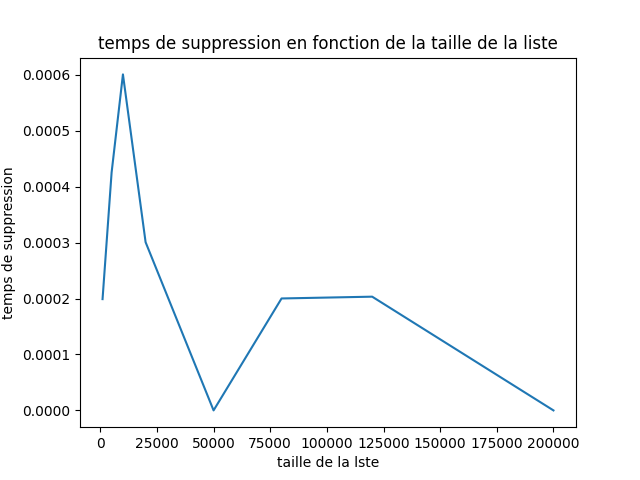
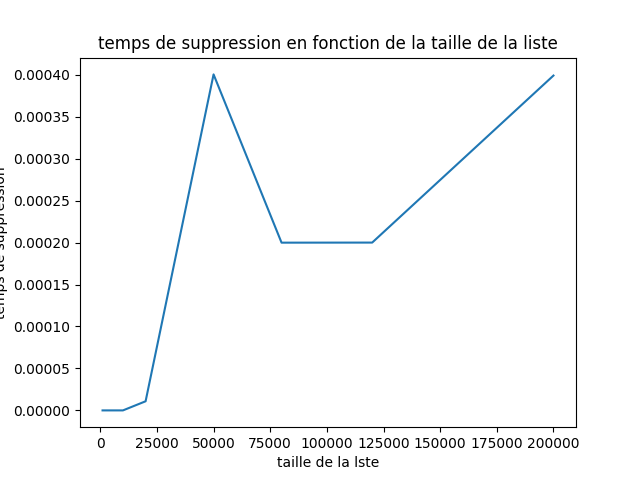
d

diff --git a/algos.py b/algos.py
@@ -425,29 +425,29 @@ list_of_sizes = [1000, 5000 ,10000, 20000, 50000, 80000, 120000 ,200000]
 # plt.savefig("experiments/temps_de_construction_tree.png")
 
 
-# def moyenne_temps_suppression_table(list_of_sizes):
-#     list_of_times = []
-#     for size in list_of_sizes:
-#         list_of_times_for_size = []
-#         for i in range(1,6):
-#             list_of_values = st.treat_from_file("cles_alea/jeu_"+str(i)+"_nb_cles_"+str(size)+".txt")
-#             heap = MinHeapTable()
-#             heap._ajout_iteratif(list_of_values)
-#             start_time = time.time()
-#             heap._suppmin()
-#             end_time = time.time()
-#             list_of_times_for_size.append(end_time - start_time)
-#         list_of_times.append(np.mean(list_of_times_for_size))
-#     return list_of_times
+def moyenne_temps_suppression_table(list_of_sizes):
+    list_of_times = []
+    for size in list_of_sizes:
+        list_of_times_for_size = []
+        for i in range(1,6):
+            list_of_values = st.treat_from_file("cles_alea/jeu_"+str(i)+"_nb_cles_"+str(size)+".txt")
+            heap = MinHeapTable()
+            heap._ajout_iteratif(list_of_values)
+            start_time = time.time()
+            heap._suppmin()
+            end_time = time.time()
+            list_of_times_for_size.append(end_time - start_time)
+        list_of_times.append(np.mean(list_of_times_for_size))
+    return list_of_times
 
-# list_of_times = moyenne_temps_suppression_table(list_of_sizes)
-# plt.clf()
-# plt.plot(list_of_sizes, list_of_times)
-# plt.xlabel("taille de la lste")
-# plt.ylabel("temps de suppression")
-# plt.title("temps de suppression en fonction de la taille de la liste")
-# # plt.show()
-# plt.savefig("experiments/temps_de_suppression_table.png")
+list_of_times = moyenne_temps_suppression_table(list_of_sizes)
+plt.clf()
+plt.plot(list_of_sizes, list_of_times)
+plt.xlabel("taille de la lste")
+plt.ylabel("temps de suppression")
+plt.title("temps de suppression en fonction de la taille de la liste")
+# plt.show()
+plt.savefig("experiments/temps_de_suppression_table.png")
 
 # def moyenne_temps_suppression_tree(list_of_sizes):
 #     list_of_times = []
@@ -475,28 +475,28 @@ list_of_sizes = [1000, 5000 ,10000, 20000, 50000, 80000, 120000 ,200000]
 
 
 
-def moyenne_temps_ajoutIteratif_table(list_of_sizes):
-    list_of_times = []
-    for size in list_of_sizes:
-        list_of_times_for_size = []
-        for i in range(1,6):
-            list_of_values = st.treat_from_file("cles_alea/jeu_"+str(i)+"_nb_cles_"+str(size)+".txt")
-            heap = MinHeapTable()
-            start_time = time.time()
-            heap._ajout_iteratif(list_of_values)
-            end_time = time.time()
-            list_of_times_for_size.append(end_time - start_time)
-        list_of_times.append(np.mean(list_of_times_for_size))
-    return list_of_times
+# def moyenne_temps_ajoutIteratif_table(list_of_sizes):
+#     list_of_times = []
+#     for size in list_of_sizes:
+#         list_of_times_for_size = []
+#         for i in range(1,6):
+#             list_of_values = st.treat_from_file("cles_alea/jeu_"+str(i)+"_nb_cles_"+str(size)+".txt")
+#             heap = MinHeapTable()
+#             start_time = time.time()
+#             heap._ajout_iteratif(list_of_values)
+#             end_time = time.time()
+#             list_of_times_for_size.append(end_time - start_time)
+#         list_of_times.append(np.mean(list_of_times_for_size))
+#     return list_of_times
 
-list_of_times = moyenne_temps_ajoutIteratif_table(list_of_sizes)
-# plt.clf()
-plt.plot(list_of_sizes, list_of_times)
-plt.xlabel("taille de la lste")
-plt.ylabel("temps d'ajout")
-plt.title("temps d'ajout_table en fonction de la taille de la liste")
-# plt.show()
-plt.savefig("experiments/temps_d_ajoutIteratif_table.png")
+# list_of_times = moyenne_temps_ajoutIteratif_table(list_of_sizes)
+# # plt.clf()
+# plt.plot(list_of_sizes, list_of_times)
+# plt.xlabel("taille de la lste")
+# plt.ylabel("temps d'ajout")
+# plt.title("temps d'ajout_table en fonction de la taille de la liste")
+# # plt.show()
+# plt.savefig("experiments/temps_d_ajoutIteratif_table.png")
 
 # def moyenne_temps_ajoutIteratif_tree(list_of_sizes):
 #     list_of_times = []
